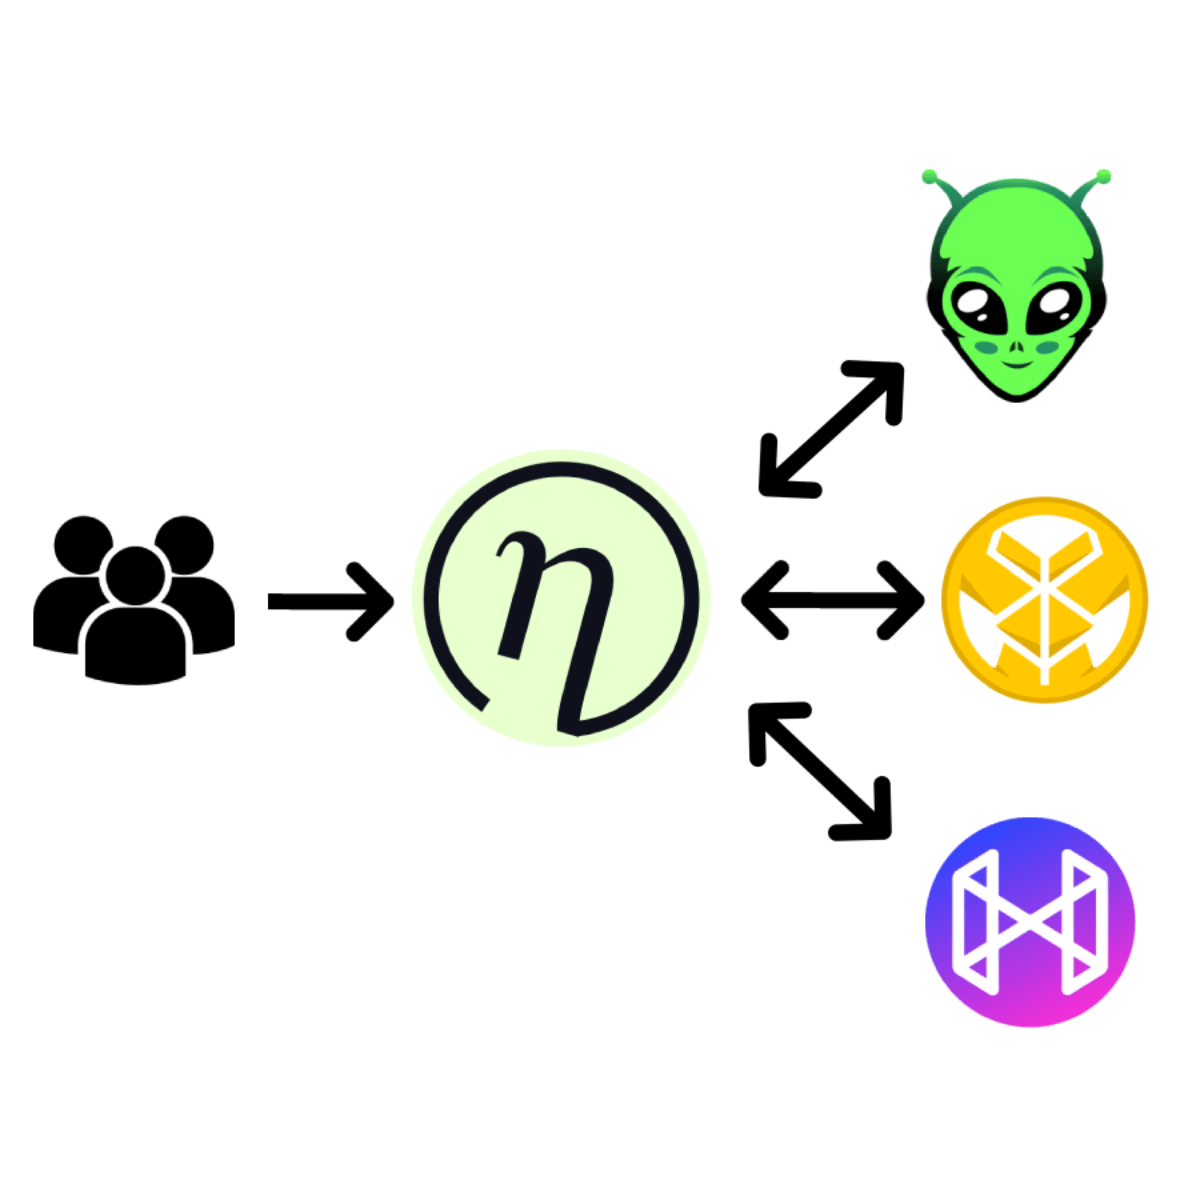
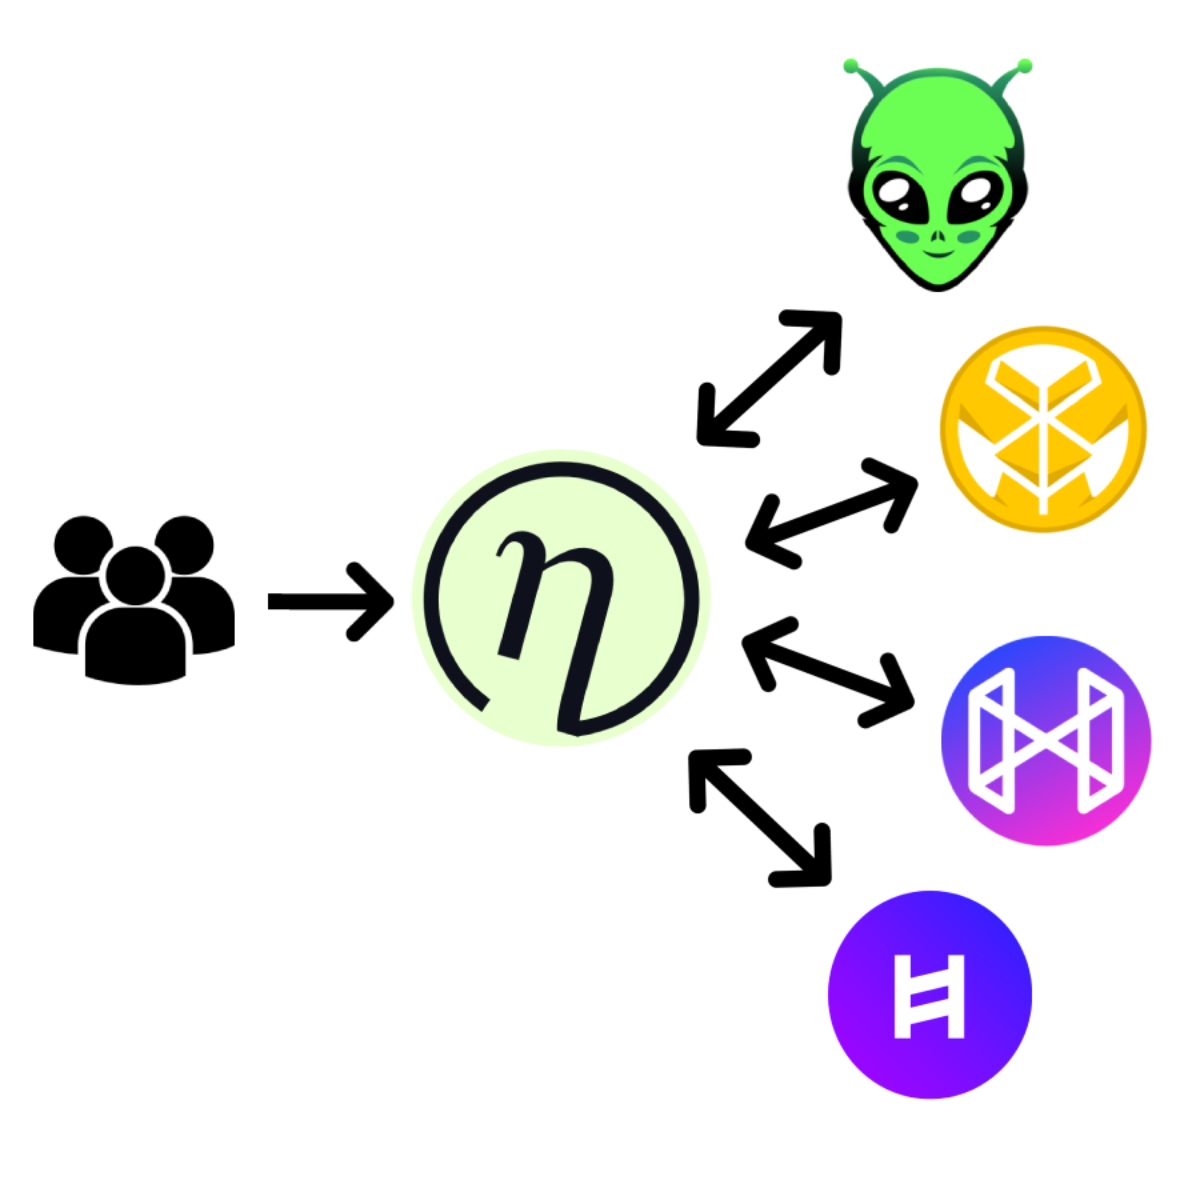
feature: hsuite

Changed region(s): [[0.555, 0.0308, 0.9558, 0.925]]

diff --git a/index.html b/index.html
@@ -442,15 +442,11 @@
     <div class="faq__item">
         <div class="faq__question">Which exchanges do you support?</div>
         <div class="faq__answer">Currently we aggregate <a href="https://www.saucerswap.finance/" target="_blank">SaucerSwap</a>,
-            <a href="https://www.pangolin.exchange/" target="_blank">Pangolin</a> and <a href="https://www.heliswap.io/"
-                                                                                         target="_blank">HeliSwap</a>.
+            <a href="https://www.pangolin.exchange/" target="_blank">Pangolin</a>, <a href="https://www.heliswap.io/"
+                                                                                         target="_blank">HeliSwap</a>, and <a href="https://hsuite.finance/" target="_blank">HSuite</a> .
             But we always open to add new exchanges if something appears in Hedera ecosystem. Feel free to contact us to
             add another DEX.
         </div>
-    </div>
-    <div class="faq__item">
-        <div class="faq__question">But what about HSuite?</div>
-        <div class="faq__answer">We are cooking, stay tuned!</div>
     </div>
     <div class="faq__item">
         <div class="faq__question">Do you provide liquidity?</div>
